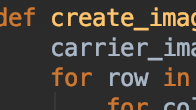
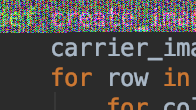
fixed inject.set_pixel

Changed region(s): [[0.0, 0.0, 1.0, 0.3]]

diff --git a/inject.py b/inject.py
@@ -1,7 +1,7 @@
-#
-# def convert_str_to_bin(msg):
-#     binary_list = [bin(ord(c))[2:] for c in msg]
-#     return ''.join(binary_list)
+"""
+injects message into the carrier matrix represents the image.
+"""
+import numpy as np
 
 
 def inject(carrier, msg):
@@ -11,12 +11,13 @@ def inject(carrier, msg):
             if bit_counter >= msg.size:
                 # run as long as there are bits to inject
                 return
-            print(carrier.mat[row][col])
             carrier.mat[row][col] = set_pixel(carrier.mat[row][col], msg.bit_list[bit_counter:bit_counter + 3])
             bit_counter += 3
 
 
 def set_pixel(pixel, bits):
-    # new_pixel = (pixel[:bits.size] & 0b01111111) | (bits << 7)    # uncomment to set MSBs
-    new_pixel = (pixel[:bits.size] & 0b11111110) | bits
+    while bits.size < 3:
+        bits = np.append(bits, 1)
+    new_pixel = (pixel & 0b11111110) | bits
+    # new_pixel = (pixel & 0b01111111) | bits << 7  # uncomment for setting MSBs
     return new_pixel

diff --git a/BitMsg.py b/BitMsg.py
@@ -3,7 +3,7 @@ import numpy as np
 
 class BitMsg:
     def __init__(self, msg):
-        char_list = [bin(ord(c))[2:] for c in msg]  # from char to decimal
+        char_list = [bin(ord(c))[2:].zfill(8) for c in msg]  # from char to decimal
         bit_list = ''.join(char_list)               # from decimal to binary
         self.bit_list = np.array([int(b) for b in bit_list])  # from binary to bits
         self.size = len(self.bit_list)
